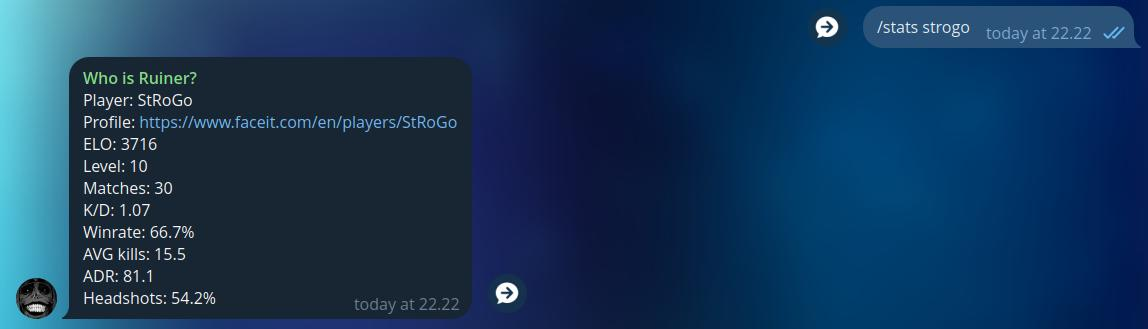
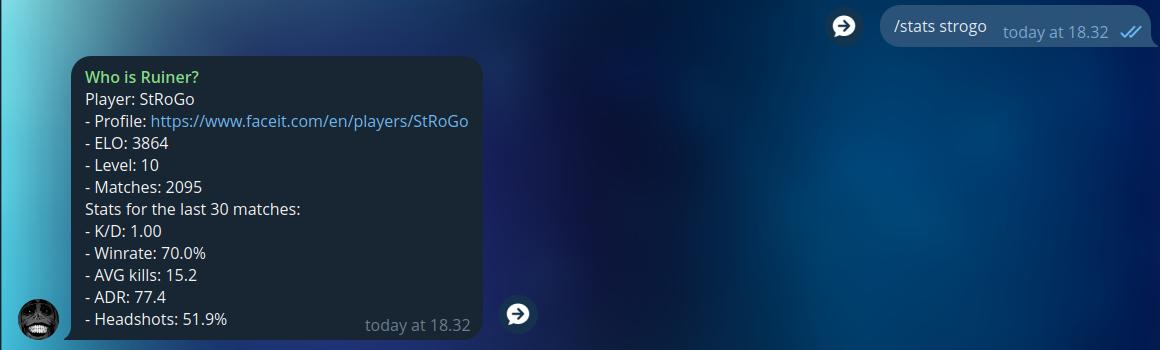
fix(stats): show total matches

Changed region(s): [[0.0, 0.152, 0.4573, 0.9726], [0.7012, 0.0, 1.0, 0.152]]

diff --git a/bot/handlers.go b/bot/handlers.go
@@ -436,16 +436,17 @@ func (h *BotHandler) handleStats(message *telegram.Message) {
 		return
 	}
 	text := strings.Join([]string{
-		fmt.Sprintf("Player: %s", stats.Nickname),
-		fmt.Sprintf("Profile: %s", stats.ProfileURL),
-		fmt.Sprintf("ELO: %d", stats.Elo),
-		fmt.Sprintf("Level: %d", stats.Level),
-		fmt.Sprintf("Matches: %d", stats.MatchesCount),
-		fmt.Sprintf("K/D: %.2f", stats.KDRatio),
-		fmt.Sprintf("Winrate: %.1f%%", stats.WinRate),
-		fmt.Sprintf("AVG kills: %.1f", stats.AvgKills),
-		fmt.Sprintf("ADR: %.1f", stats.ADR),
-		fmt.Sprintf("Headshots: %.1f%%", stats.HeadshotsPct),
+		fmt.Sprintf("- Player: %s", stats.Nickname),
+		fmt.Sprintf("- Profile: %s", stats.ProfileURL),
+		fmt.Sprintf("- ELO: %d", stats.Elo),
+		fmt.Sprintf("- Level: %d", stats.Level),
+		fmt.Sprintf("- Matches: %d", stats.TotalMatches),
+		"Stats for the last 30 matches:",
+		fmt.Sprintf("- K/D: %.2f", stats.KDRatio),
+		fmt.Sprintf("- Winrate: %.1f%%", stats.WinRate),
+		fmt.Sprintf("- AVG kills: %.1f", stats.AvgKills),
+		fmt.Sprintf("- ADR: %.1f", stats.ADR),
+		fmt.Sprintf("- Headshots: %.1f%%", stats.HeadshotsPct),
 	}, "\n")
 	h.reply(message.Chat.ID, text)
 }

diff --git a/faceit/client.go b/faceit/client.go
@@ -45,6 +45,7 @@ type PlayerStats struct {
 	KDRatio      float64
 	WinRate      float64
 	MatchesCount int
+	TotalMatches int
 	AvgKills     float64
 	ADR          float64
 	HeadshotsPct float64
@@ -286,6 +287,21 @@ func (c *Client) GetPlayerStats(ctx context.Context, playerID, gameID string) (*
 	details, err := c.GetPlayerDetails(ctx, playerID)
 	if err != nil {
 		return nil, err
+	}
+
+	lifetimeURL := fmt.Sprintf("%s/players/%s/stats/%s", c.baseURL, playerID, gameID)
+	lifetimeBody, err := c.doRequest(ctx, "GET", lifetimeURL, nil, "")
+	if err == nil {
+		var lifetimeResp struct {
+			Lifetime map[string]any `json:"lifetime"`
+		}
+
+		if json.Unmarshal(lifetimeBody, &lifetimeResp) == nil {
+			details.TotalMatches = toInt(lifetimeResp.Lifetime["Total Matches"])
+			if details.TotalMatches == 0 {
+				details.TotalMatches = toInt(lifetimeResp.Lifetime["Matches"])
+			}
+		}
 	}
 
 	rawURL := fmt.Sprintf("%s/players/%s/games/%s/stats?limit=30", c.baseURL, url.PathEscape(playerID), url.PathEscape(gameID))
